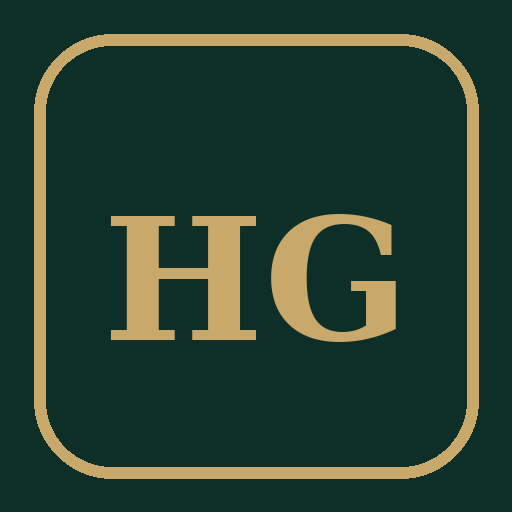
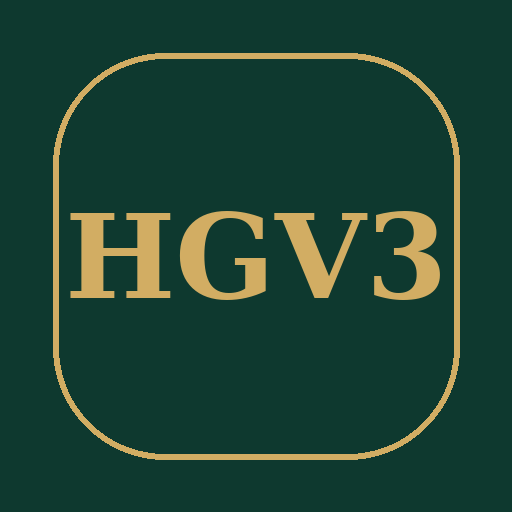
Add files via upload

diff --git a/index.html b/index.html
@@ -1,15 +1,15 @@
 <!doctype html>
-<!-- Heritage Garage Version 4 HGV2: photo library enabled; provenance-safe vehicle editing added --><html lang="en"><head>
+<!-- Heritage Garage Version 4 HGV3: photo library enabled; provenance-safe vehicle editing added --><html lang="en"><head>
 <meta charset="utf-8"><meta name="viewport" content="width=device-width,initial-scale=1,viewport-fit=cover">
 <meta name="theme-color" content="#0d2f27"><meta name="apple-mobile-web-app-capable" content="yes">
-<meta name="apple-mobile-web-app-title" content="Heritage Garage">
+<meta name="apple-mobile-web-app-title" content="Heritage Garage HGV3">
 <link rel="apple-touch-icon" href="apple-touch-icon.png"><link rel="manifest" href="manifest.webmanifest">
 <script src="https://cdn.jsdelivr.net/npm/@supabase/supabase-js@2"></script><title>Heritage Garage</title>
 <style>
 :root{--bg:#0d110f;--p:#161c18;--g:#183a30;--g2:#245343;--gold:#c8a96b;--c:#efe5d2;--m:#aab0ab;--l:#304138}
 *{box-sizing:border-box}body{margin:0;background:var(--bg);color:var(--c);font-family:-apple-system,BlinkMacSystemFont,"Segoe UI",sans-serif}
 button,input,textarea{font:inherit}.app{max-width:760px;margin:auto;min-height:100vh;padding:calc(22px + env(safe-area-inset-top)) 18px calc(145px + env(safe-area-inset-bottom))}
-.brand{display:flex;gap:14px;align-items:center;margin-bottom:20px}.logo{width:62px;height:62px;border:2px solid var(--gold);border-radius:20px;display:grid;place-items:center;color:var(--gold);font:700 29px Georgia,serif}
+.brand{display:flex;gap:14px;align-items:center;margin-bottom:20px}.logo{width:62px;height:62px;border:2px solid var(--gold);border-radius:20px;display:grid;place-items:center;color:var(--gold);font:700 19px Georgia,serif;letter-spacing:-.04em}
 h1,h2{font-family:Georgia,serif}h1{margin:0}.sub,.small{color:var(--m);font-size:13px;line-height:1.45}.hero,.panel,.vehicle,.method{background:var(--p);border:1px solid var(--l);border-radius:19px;padding:16px;margin-bottom:12px}.hero{background:linear-gradient(145deg,var(--g2),#10251e)}.k{color:var(--gold);font-size:11px;letter-spacing:.13em;text-transform:uppercase}.hero h2{margin:7px 0;font-size:28px}.hero p{margin:0;color:#d9d6ce}
 .primary,.secondary,.danger{width:100%;padding:14px;border-radius:14px;font-weight:650}.primary{background:var(--g);border:1px solid var(--gold);color:var(--c)}.secondary{margin-top:9px;background:var(--p);border:1px solid var(--l);color:var(--c)}.danger{margin-top:9px;background:#3b211e;border:1px solid #77443d;color:#ffd8d2}
 label{display:block;color:var(--gold);font-size:11px;text-transform:uppercase;margin:13px 0 5px}input,textarea{width:100%;padding:12px;border-radius:11px;border:1px solid var(--l);background:#111713;color:var(--c)}textarea{min-height:76px}
@@ -23,20 +23,20 @@ label{display:block;color:var(--gold);font-size:11px;text-transform:uppercase;ma
 </style></head><body>
 <div class="app">
 <div id="setup">
-  <div class="brand"><div class="logo">HG</div><div><h1>Heritage Garage</h1><div class="sub">Private Pilot V4</div></div></div>
+  <div class="brand"><div class="logo">HGV3</div><div><h1>Heritage Garage</h1><div class="sub">Private Pilot V4</div></div></div>
   <div class="hero"><div class="k">One-time setup</div><h2>Connect Supabase</h2><p>Paste the project URL and browser-safe publishable key. Never paste your OpenAI secret here.</p></div>
   <div class="panel"><label>Supabase Project URL</label><input id="cfgUrl" placeholder="https://xxxxx.supabase.co" autocapitalize="none"><label>Publishable key</label><textarea id="cfgKey" placeholder="sb_publishable_..." autocapitalize="none"></textarea><button class="primary" style="margin-top:14px" onclick="saveCfg()">Save & Connect</button></div>
 </div>
 
 <div id="login" class="hidden">
- <div class="brand"><div class="logo">HG</div><div><h1>Heritage Garage</h1><div class="sub">Private Pilot V4</div></div></div>
+ <div class="brand"><div class="logo">HGV3</div><div><h1>Heritage Garage</h1><div class="sub">Private Pilot V4</div></div></div>
  <div class="hero"><div class="k">Private collection</div><h2>Sign in</h2><p>Use the Supabase user account created for the pilot.</p></div>
  <div class="panel"><label>Email</label><input id="email" type="email"><label>Password</label><input id="pw" type="password"><button class="primary" style="margin-top:14px" onclick="signIn()">Sign In</button><div id="loginMsg" class="small" style="margin-top:10px"></div><button class="secondary" onclick="resetCfg()">Backend Settings</button></div>
 </div>
 
 <div id="main" class="hidden">
 <div id="home">
- <div class="brand"><div class="logo">HG</div><div><h1>Heritage Garage</h1><div class="sub">An evidence-based record of a vehicle's history.</div></div></div>
+ <div class="brand"><div class="logo">HGV3</div><div><h1>Heritage Garage</h1><div class="sub">An evidence-based record of a vehicle's history.</div></div></div>
  <div class="hero"><div class="k">Two-vehicle pilot</div><h2>My Garage</h2><p>Real AI/OCR, but every inference remains evidence—not fact—until reviewed.</p></div>
  <div id="garage"></div><button id="addBtn" class="primary" onclick="show('add')">＋ Add Vehicle</button>
  <div class="panel" style="margin-top:16px"><div class="k">Core principle</div><p class="small">Heritage Garage never silently turns an educated guess, AI suggestion or OCR reading into historical fact.</p></div>
